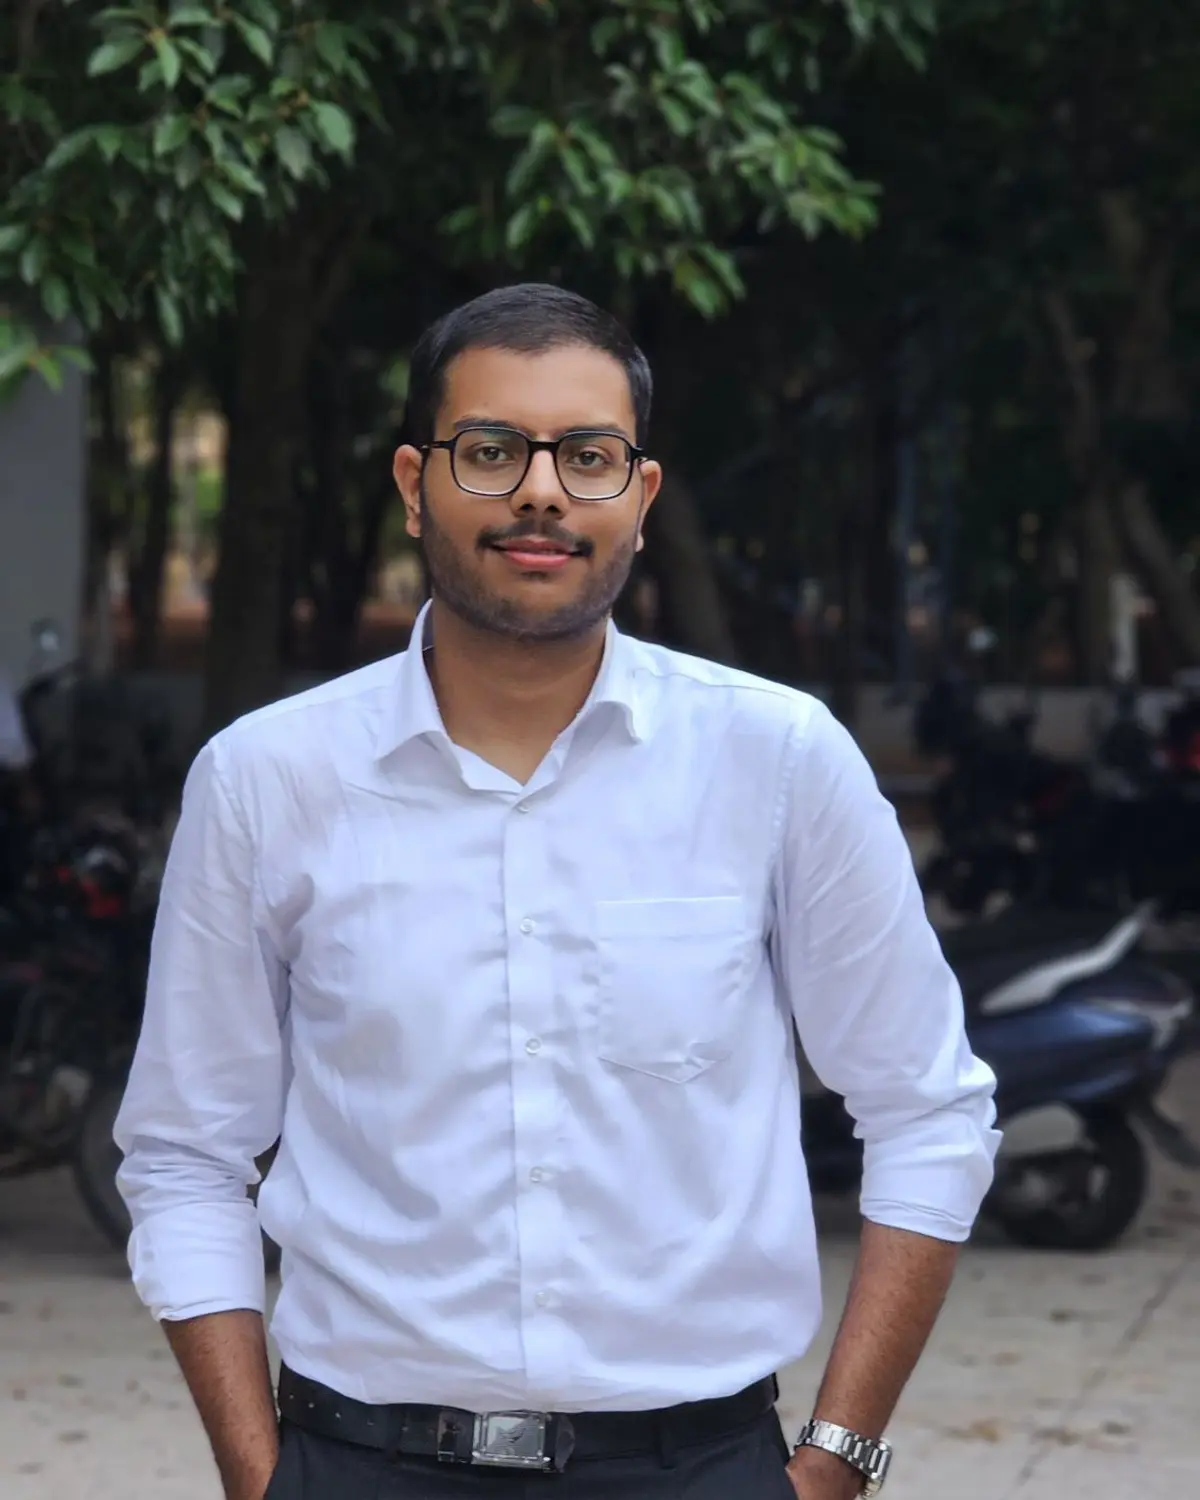
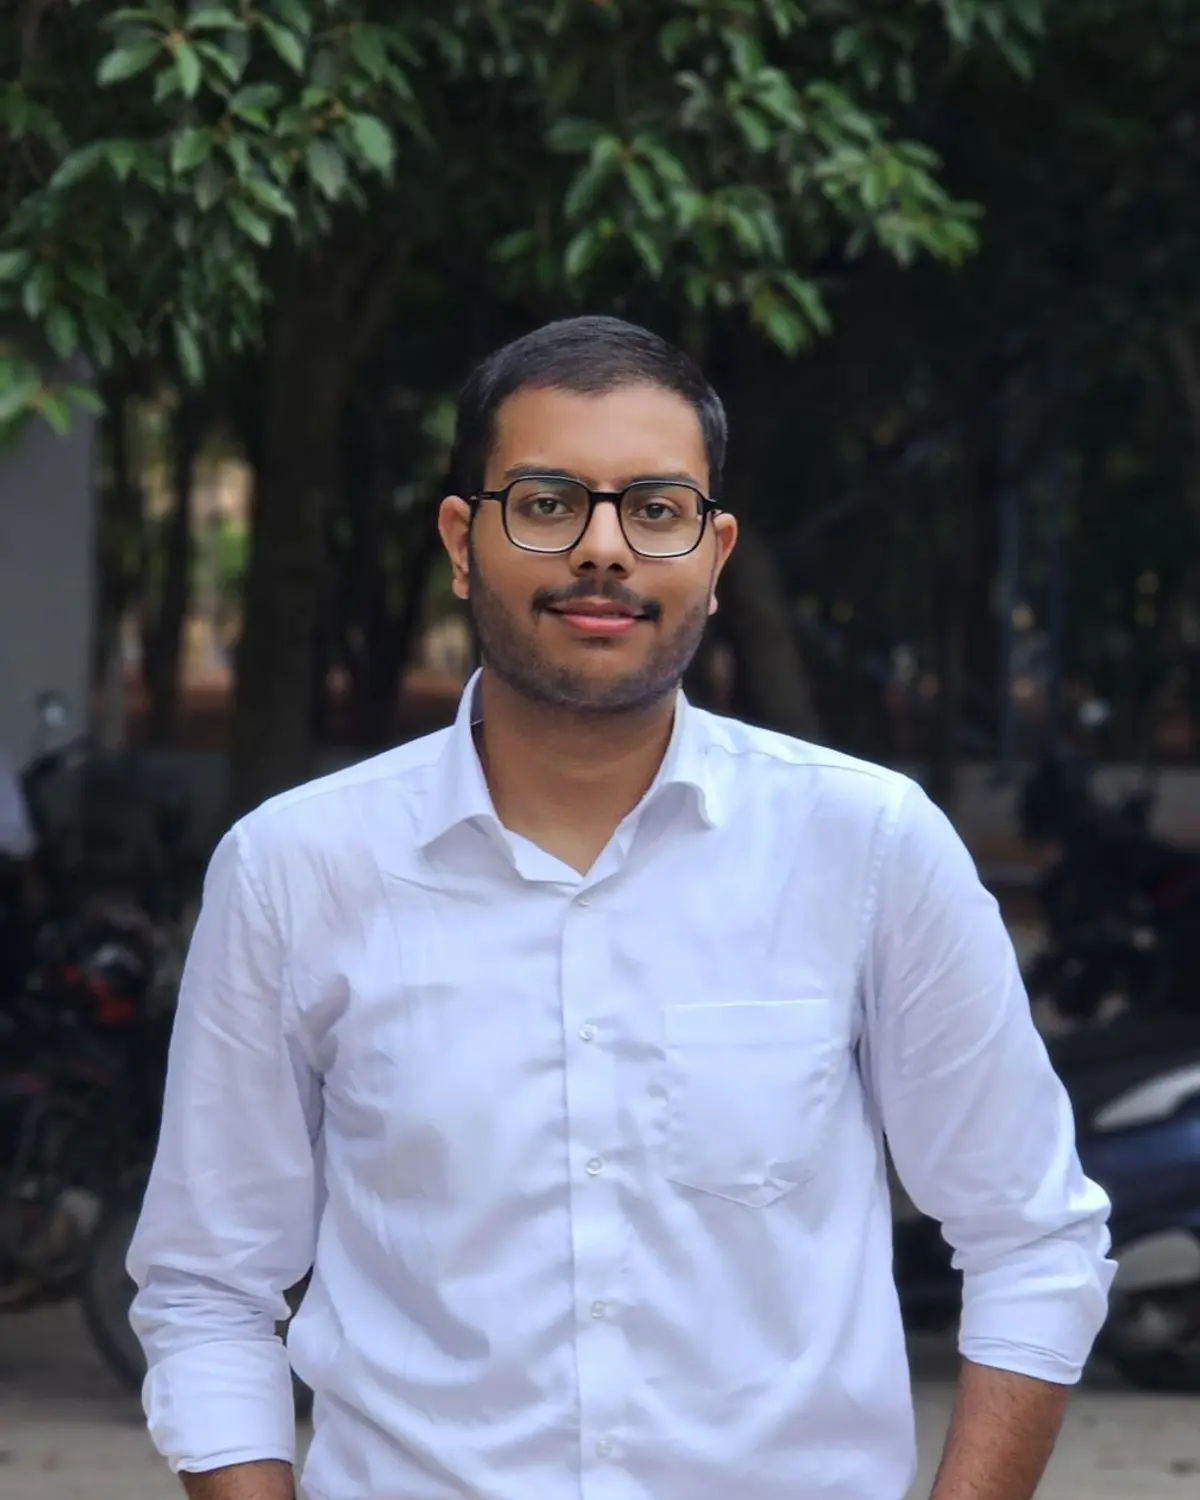
Tighten section rhythm, equalise hero tiles, centre hero photo crop
Section padding py-20/sm:py-24 -> py-10/sm:py-14, header mb-10 -> mb-8,
hero min-h and gaps trimmed, About/Contact grid gaps 10 -> 8, hero tiles
stretch to equal height, hero crop narrowed to 1010px so the subject is centred.

diff --git a/src/components/sections/HeroTiles.jsx b/src/components/sections/HeroTiles.jsx
@@ -8,7 +8,7 @@ import Sketch from "../notebook/Sketch";
 // and a wave button. Light fun; none of them hide any information.
 export default function HeroTiles() {
   return (
-    <div className="mx-auto grid max-w-6xl gap-6 px-4 pb-8 sm:px-6 md:grid-cols-3">
+    <div className="mx-auto grid max-w-6xl items-stretch gap-6 px-4 pb-8 sm:px-6 md:grid-cols-3">
       <h2 className="sr-only">At a glance</h2>
       <NowBuilding />
       <ByTheNumbers />
@@ -19,7 +19,7 @@ export default function HeroTiles() {
 
 function NowBuilding() {
   return (
-    <article className="card tilt-l lift p-5">
+    <article className="card tilt-l lift h-full p-5">
       <p className="hud-label flex items-center gap-2"><span className="pulse-dot h-2 w-2 rounded-full bg-red" /> Now building</p>
       <h3 className="mt-2 font-serif text-2xl font-semibold">{nowBuilding.title}</h3>
       <p className="text-sm text-muted">{nowBuilding.what}</p>
@@ -37,7 +37,7 @@ function ByTheNumbers() {
   const ref = useRef(null);
   const inView = useInView(ref, { once: true, margin: "-60px" });
   return (
-    <article ref={ref} className="card tape-blue tape lift relative p-5">
+    <article ref={ref} className="card tape-blue tape lift relative h-full p-5">
       <p className="hud-label">By the numbers</p>
       <dl className="mt-3 grid grid-cols-2 gap-x-4 gap-y-4">
         {stats.map((s) => (
@@ -83,7 +83,7 @@ function Wave() {
   };
   const reply = count === 0 ? "Go on, say hi." : count < 3 ? "He waved back! (in spirit)" : count < 10 ? `That's ${count} waves. You're friends now.` : `${count} waves?! Just email him already 😄`;
   return (
-    <article className="card tilt-r lift relative overflow-hidden p-5">
+    <article className="card tilt-r lift relative h-full overflow-hidden p-5">
       <Sketch kind="comet" className="absolute -right-3 -top-3 h-20 w-20 text-blue/40" />
       <p className="hud-label">Wave at Harshit</p>
       <button

diff --git a/src/components/layout/SectionFrame.jsx b/src/components/layout/SectionFrame.jsx
@@ -9,9 +9,9 @@ import Sketch from "../notebook/Sketch";
 export default function SectionFrame({ id, title, kicker, doodle, children, className = "" }) {
   const meta = sections.find((s) => s.id === id);
   return (
-    <section id={id} aria-labelledby={`${id}-title`} className={`relative mx-auto w-full max-w-6xl px-4 py-20 sm:px-6 sm:py-24 ${className}`}>
-      {doodle && <Sketch kind={doodle} className="drift pointer-events-none absolute right-4 top-12 hidden h-28 w-28 text-blue/60 lg:block" />}
-      <header className="mb-10 max-w-3xl">
+    <section id={id} aria-labelledby={`${id}-title`} className={`relative mx-auto w-full max-w-6xl px-4 py-10 sm:px-6 sm:py-14 ${className}`}>
+      {doodle && <Sketch kind={doodle} className="drift pointer-events-none absolute right-4 top-8 hidden h-28 w-28 text-blue/60 lg:block" />}
+      <header className="mb-8 max-w-3xl">
         <p className="hud-label">
           Log entry {meta?.code} <span className="text-red">·</span> {meta?.codename}
         </p>

diff --git a/src/components/sections/Contact.jsx b/src/components/sections/Contact.jsx
@@ -11,7 +11,7 @@ import MarginNote from "../notebook/MarginNote";
 export default function Contact() {
   return (
     <SectionFrame id="contact" title="Let's talk" kicker="Hiring, collaborating, or just want to argue about the best Star Wars film? The radio is on." doodle="comet">
-      <div className="grid gap-10 lg:grid-cols-[1fr_1.1fr] [&>*]:min-w-0">
+      <div className="grid gap-8 lg:grid-cols-[1fr_1.1fr] [&>*]:min-w-0">
         <div className="flex flex-col gap-5">
           <p className="flex items-center gap-2 text-sm text-muted">
             <span className="pulse-dot h-2 w-2 rounded-full bg-blue" /> Usually replies within a day · {profile.status}

diff --git a/src/components/sections/Hero.jsx b/src/components/sections/Hero.jsx
@@ -14,7 +14,7 @@ import HeroTiles from "./HeroTiles";
 export default function Hero() {
   return (
     <section id="hero" aria-labelledby="hero-title" className="relative">
-      <div className="relative mx-auto grid max-w-6xl items-center gap-14 px-4 pb-10 pt-14 sm:px-6 lg:min-h-[calc(100svh-9rem)] lg:grid-cols-[1.3fr_1fr] lg:pt-10">
+      <div className="relative mx-auto grid max-w-6xl items-center gap-12 px-4 pb-8 pt-12 sm:px-6 lg:min-h-[calc(100svh-14rem)] lg:grid-cols-[1.3fr_1fr] lg:pt-8">
         <div>
           <Greeting />
 

diff --git a/src/components/sections/About.jsx b/src/components/sections/About.jsx
@@ -11,7 +11,7 @@ import ProjectStack from "../projects/ProjectStack";
 export default function About() {
   return (
     <SectionFrame id="about" title="Crew profile" doodle="moon">
-      <div className="grid items-stretch gap-10 lg:grid-cols-[1.35fr_1fr]">
+      <div className="grid items-stretch gap-8 lg:grid-cols-[1.35fr_1fr]">
         <div className="flex flex-col gap-8">
         <div className="card p-6 sm:p-8">
           <p className="font-serif text-2xl font-medium leading-snug sm:text-[1.75rem]">{about.lines[0]}</p>
